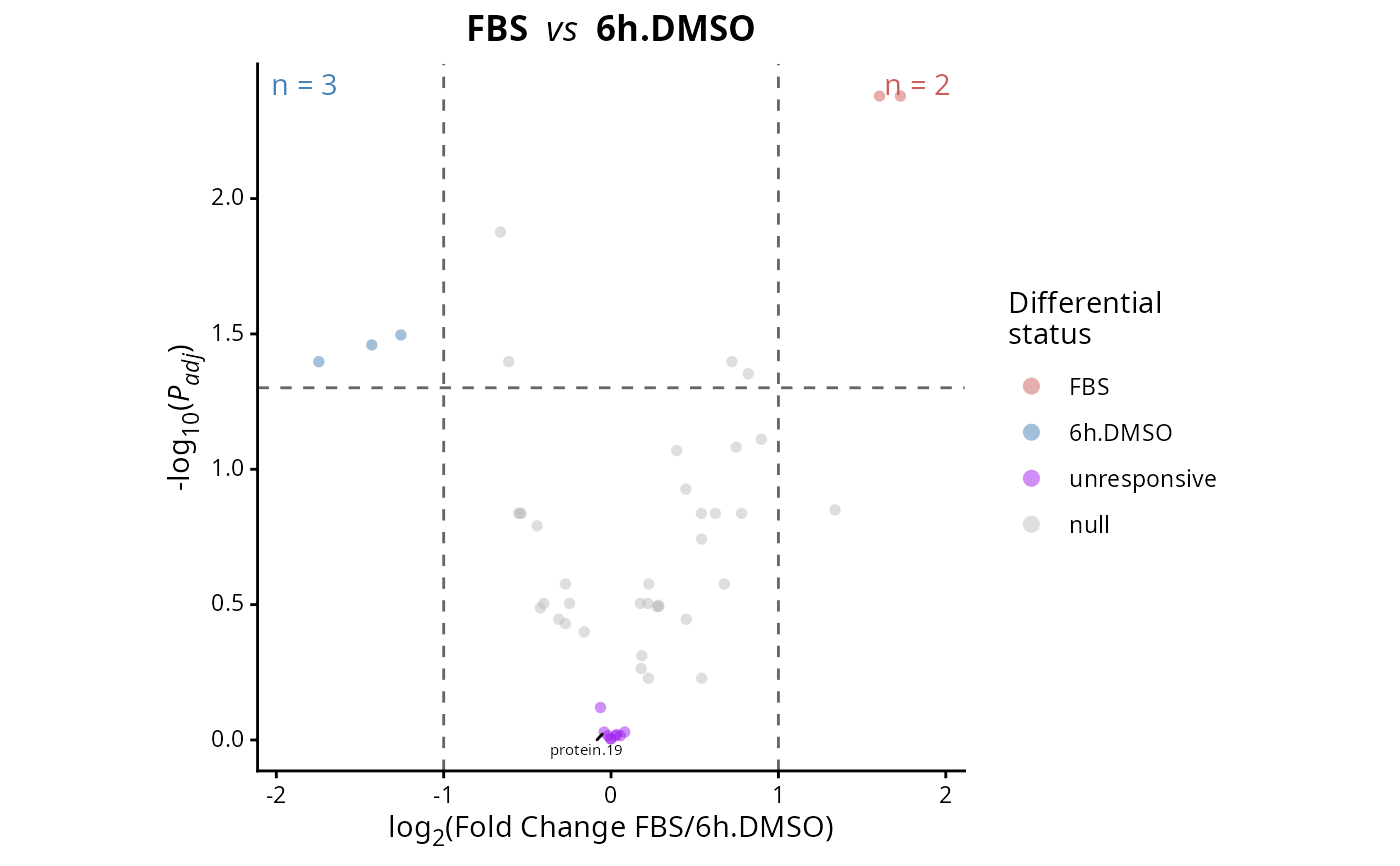
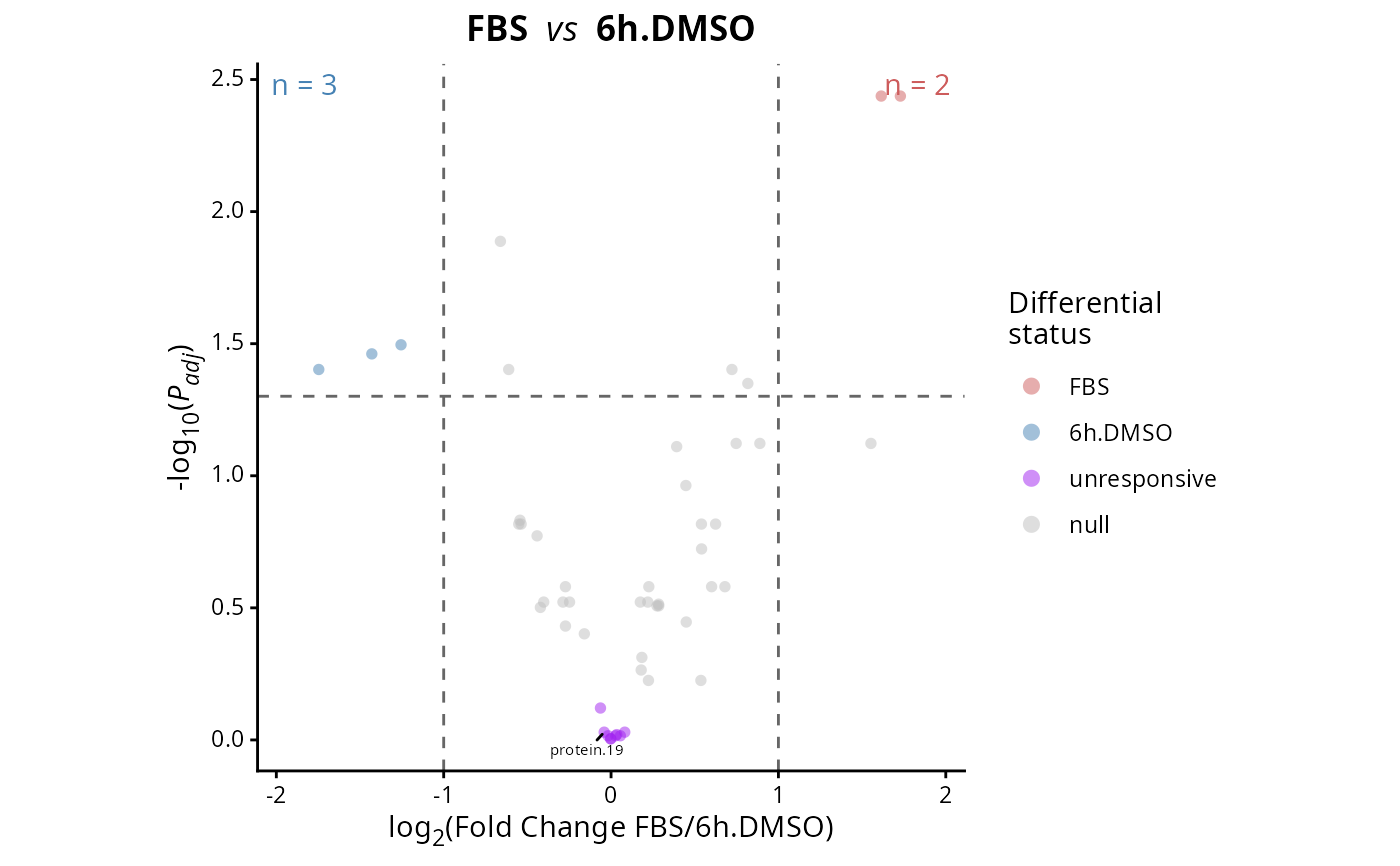
Update volcano function

diff --git a/manual/plot.volcano.html b/manual/plot.volcano.html
@@ -80,7 +80,8 @@
 <span>  labels.in.boxes <span class="op">=</span> <span class="cn">FALSE</span>,</span>
 <span>  label.font.size <span class="op">=</span> <span class="fl">2</span>,</span>
 <span>  label.max.overlaps <span class="op">=</span> <span class="fl">100</span>,</span>
-<span>  min.segment.length.labels <span class="op">=</span> <span class="fl">0</span></span>
+<span>  min.segment.length.labels <span class="op">=</span> <span class="fl">0</span>,</span>
+<span>  label.top.n <span class="op">=</span> <span class="cn">NULL</span></span>
 <span><span class="op">)</span></span></code></pre></div>
     </div>
 
@@ -155,6 +156,10 @@
 <dt id="arg-min-segment-length-labels">min.segment.length.labels<a class="anchor" aria-label="anchor" href="#arg-min-segment-length-labels"></a></dt>
 <dd><p>Numeric value indicating the minimal length of the segments that connect the labels to the points. Default: <code>0</code> (segment always shown).</p></dd>
 
+
+<dt id="arg-label-top-n">label.top.n<a class="anchor" aria-label="anchor" href="#arg-label-top-n"></a></dt>
+<dd><p>Single integer value (or <code>NULL</code>) indicating the number of top differentially expressed proteins to label automatically. Differential proteins (up- or down-regulated) are ranked by <code>-log10(padj) * abs(log2FC)</code> and the top <code>N</code> are labeled; if fewer than <code>N</code> differential proteins are available, all of them are labeled. When <code>use.uncorrected.pvalue = TRUE</code>, the uncorrected p-value is used in the ranking instead of the adjusted one. Any IDs provided through <code>dot.labels</code> are added to the automatically selected ones. The <code>protein.names.pattern</code>, <code>labels.in.boxes</code> and other label aesthetics are applied to these labels as well. Default: <code>NULL</code> (no automatic labels).</p></dd>
+
 </dl></div>
     <div id="value">
     <h2>Value</h2>
@@ -167,12 +172,23 @@
 
     <div id="ref-examples">
     <h2>Examples</h2>
-    <div class="sourceCode"><pre class="sourceCode r"><code><span class="r-in"><span><span class="fu">plot.volcano</span><span class="op">(</span>DEprot.analyses.object <span class="op">=</span> <span class="fu">DEprot</span><span class="fu">::</span><span class="va"><a href="test.toolbox.html">test.toolbox</a></span><span class="op">$</span><span class="va">diff.exp.limma</span>,</span></span>
+    <div class="sourceCode"><pre class="sourceCode r"><code><span class="r-in"><span><span class="co"># With specific-labels</span></span></span>
+<span class="r-in"><span><span class="fu">plot.volcano</span><span class="op">(</span>DEprot.analyses.object <span class="op">=</span> <span class="fu">DEprot</span><span class="fu">::</span><span class="va"><a href="test.toolbox.html">test.toolbox</a></span><span class="op">$</span><span class="va">diff.exp.limma</span>,</span></span>
 <span class="r-in"><span>             contrast <span class="op">=</span> <span class="fl">1</span>,</span></span>
 <span class="r-in"><span>             dot.labels <span class="op">=</span> <span class="st">"protein.19"</span>,</span></span>
 <span class="r-in"><span>             labels.in.boxes <span class="op">=</span> <span class="cn">FALSE</span><span class="op">)</span> <span class="op">+</span></span></span>
 <span class="r-in"><span>  <span class="fu">ggplot2</span><span class="fu">::</span><span class="fu"><a href="https://ggplot2.tidyverse.org/reference/labs.html" class="external-link">xlab</a></span><span class="op">(</span><span class="st">"log&lt;sub&gt;2&lt;/sub&gt;(Fold Change FBS/6h.DMSO)"</span><span class="op">)</span></span></span>
 <span class="r-plt img"><img src="plot.volcano-1.png" alt="" width="700" height="433"></span>
+<span class="r-in"><span></span></span>
+<span class="r-in"><span></span></span>
+<span class="r-in"><span><span class="co"># Labeling top-10 proteins</span></span></span>
+<span class="r-in"><span><span class="fu">plot.volcano</span><span class="op">(</span>DEprot.analyses.object <span class="op">=</span> <span class="fu">DEprot</span><span class="fu">::</span><span class="va"><a href="test.toolbox.html">test.toolbox</a></span><span class="op">$</span><span class="va">diff.exp.limma</span>,</span></span>
+<span class="r-in"><span>             contrast <span class="op">=</span> <span class="fl">1</span>,</span></span>
+<span class="r-in"><span>             dot.labels <span class="op">=</span> <span class="st">"protein.19"</span>,</span></span>
+<span class="r-in"><span>             label.top.n <span class="op">=</span> <span class="fl">10</span>,</span></span>
+<span class="r-in"><span>             labels.in.boxes <span class="op">=</span> <span class="cn">FALSE</span><span class="op">)</span> <span class="op">+</span></span></span>
+<span class="r-in"><span>  <span class="fu">ggplot2</span><span class="fu">::</span><span class="fu"><a href="https://ggplot2.tidyverse.org/reference/labs.html" class="external-link">xlab</a></span><span class="op">(</span><span class="st">"log&lt;sub&gt;2&lt;/sub&gt;(Fold Change FBS/6h.DMSO)"</span><span class="op">)</span></span></span>
+<span class="r-plt img"><img src="plot.volcano-2.png" alt="" width="700" height="433"></span>
 <span class="r-in"><span></span></span>
 </code></pre></div>
     </div>